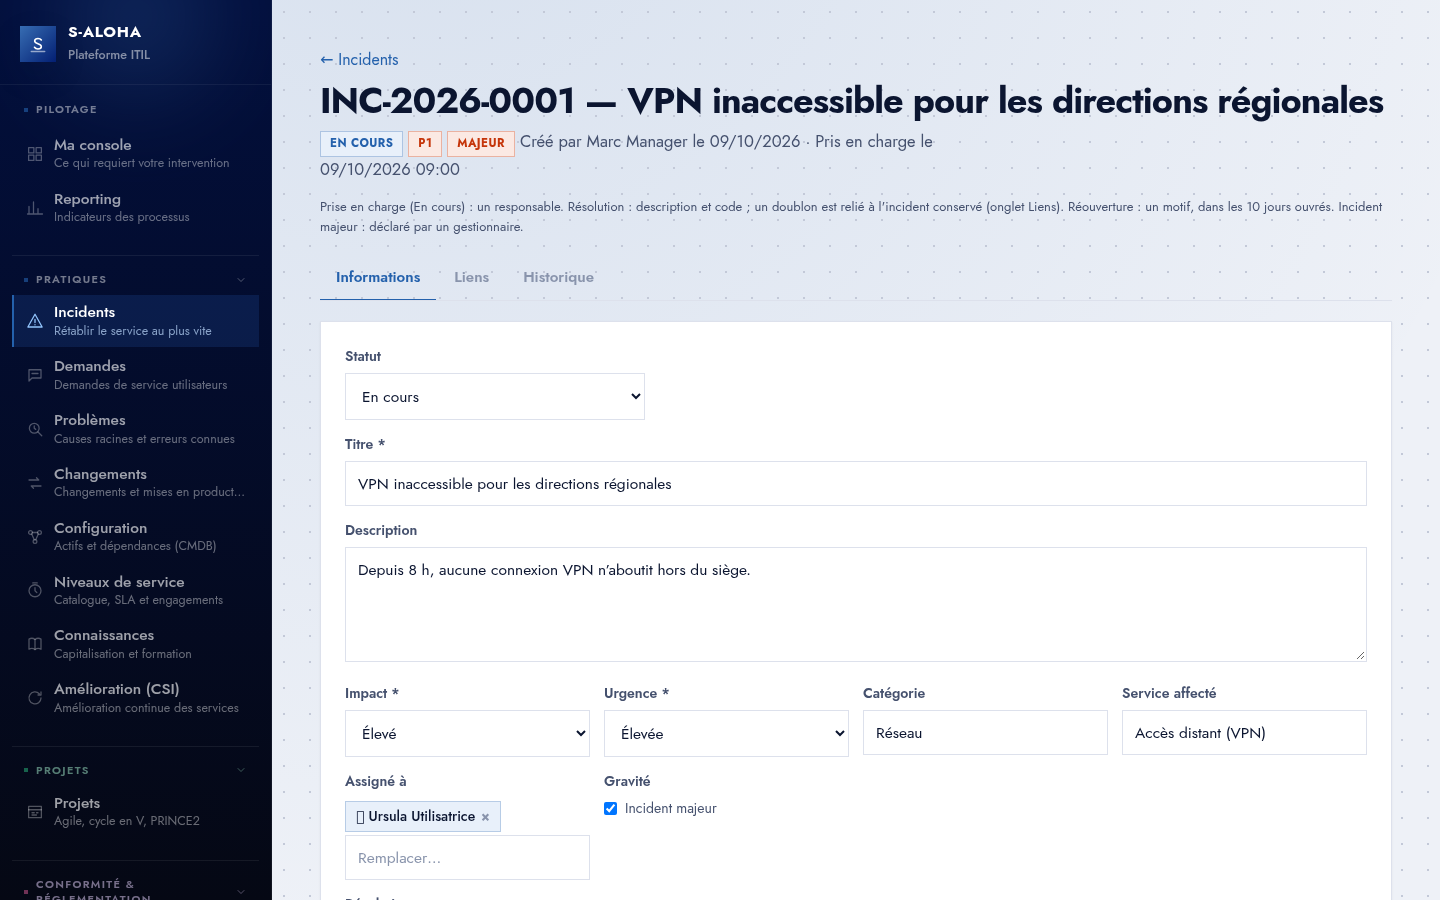
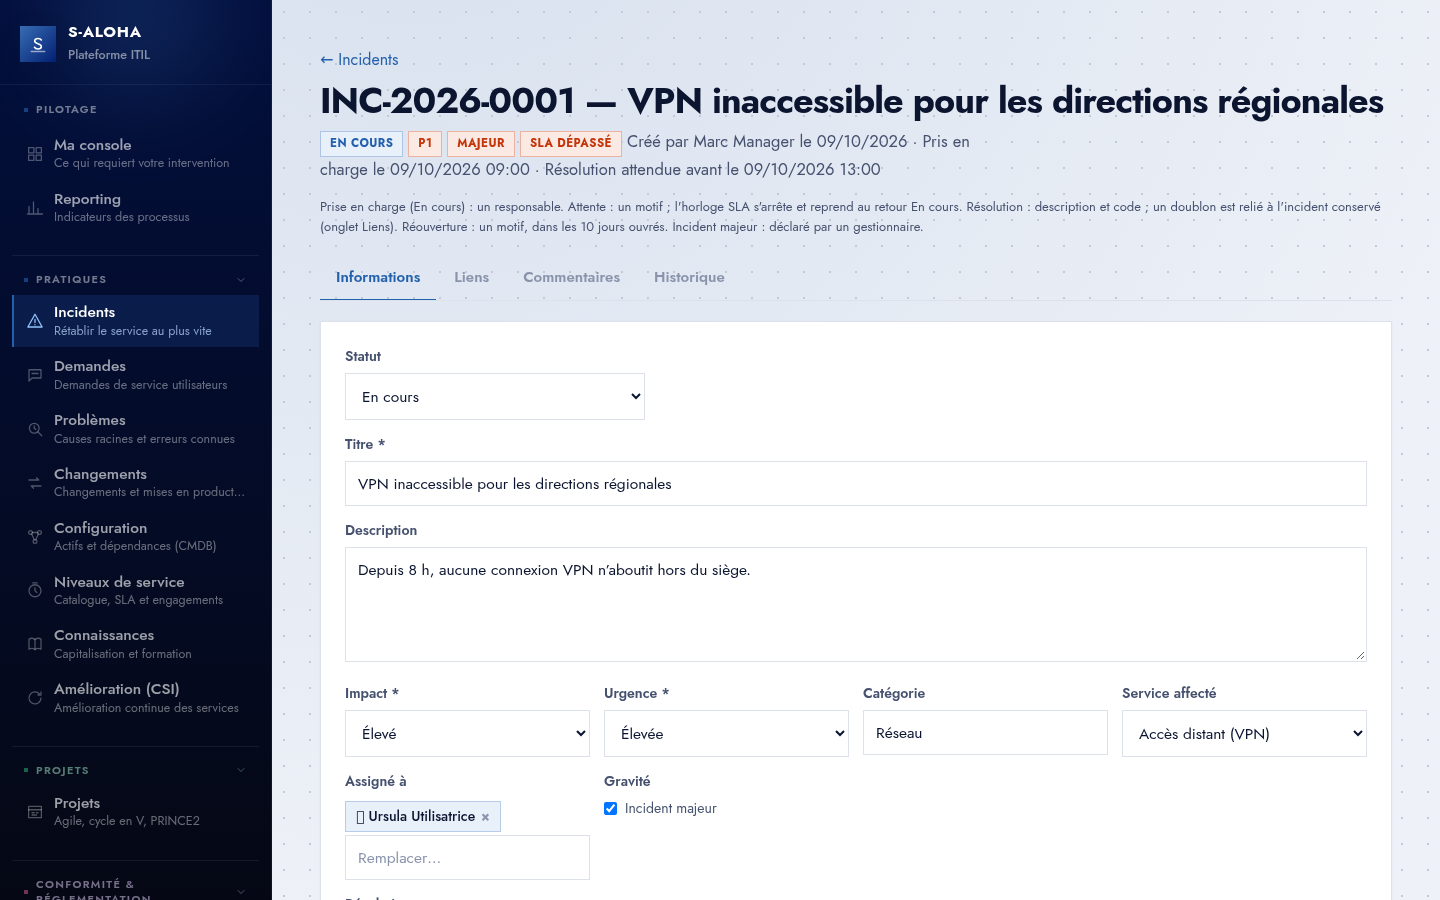
Captures d'écran sur l'interface actuelle, notifications dans la galerie

diff --git a/README.md b/README.md
@@ -140,12 +140,12 @@ dépendance à un éditeur.
     <td><img src="docs/screenshots/08-reporting.png" alt="Reporting" /><br/><b>Reporting</b> — tableau de bord à onglets : santé, incidents, problèmes, changements et projets, conformité</td>
   </tr>
   <tr>
-    <td><img src="docs/screenshots/10-incident-majeur.png" alt="Incident majeur" /><br/><b>Incidents</b> — priorité P1–P4, incident majeur, problème lié</td>
+    <td><img src="docs/screenshots/10-incident-majeur.png" alt="Incident majeur" /><br/><b>Incident majeur</b> — priorité P1–P4, état du SLA, échéance de résolution</td>
     <td><img src="docs/screenshots/11-calendrier-changements.png" alt="Calendrier des changements" /><br/><b>Changements</b> — autorisation et calendrier des mises en production</td>
   </tr>
   <tr>
     <td><img src="docs/screenshots/12-configuration-relations.png" alt="CI et relations" /><br/><b>Configuration</b> — éléments de configuration et leurs dépendances</td>
-    <td><img src="docs/screenshots/13-niveaux-de-service.png" alt="Accords de niveau de service" /><br/><b>Niveaux de service</b> — SLA par service, cibles et revues</td>
+    <td><img src="docs/screenshots/13-niveaux-de-service.png" alt="Accords de niveau de service" /><br/><b>Niveaux de service</b> — SLA par service, disponibilité, revues</td>
   </tr>
   <tr>
     <td><img src="docs/screenshots/14-connaissances.png" alt="Base de connaissances" /><br/><b>Connaissances</b> — solutions, procédures, erreurs connues</td>
@@ -154,6 +154,10 @@ dépendance à un éditeur.
   <tr>
     <td><img src="docs/screenshots/17-projet-scrum.png" alt="Projet Scrum" /><br/><b>Projets</b> — Scrum, cycle en V, PRINCE2 : backlog, sprints, tableau</td>
     <td><img src="docs/screenshots/18-conformite-nis2.png" alt="Conformité NIS 2" /><br/><b>Conformité NIS 2</b> — évaluation, score, maturité et écarts par objectif</td>
+  </tr>
+  <tr>
+    <td><img src="docs/screenshots/19-notifications.png" alt="Notifications" /><br/><b>Notifications</b> — demandes en retard, actions en retard, SLA dépassés, incidents P1</td>
+    <td><img src="docs/screenshots/09-incidents.png" alt="Registre des incidents" /><br/><b>Registre des incidents</b> — priorité, service, état du SLA</td>
   </tr>
 </table>
 

diff --git a/docs/archives/journal-2026-10-16.md b/docs/archives/journal-2026-10-16.md
@@ -106,3 +106,21 @@
 - **Commit** : branche `presentation-fonctionnalites`.
 
 ---
+
+## Captures d'écran sur l'interface actuelle ; description du dépôt
+
+- **Quoi** : les 18 captures de `docs/screenshots/` refaites sur le code de main 89f1b2f
+  (console avec SLA en risque, registre des incidents avec état du SLA, fiches à jour), et une
+  nouvelle, `19-notifications.png` (cloche ouverte). Galerie du README : notifications et
+  registre des incidents ajoutés, légendes à jour. Description et sujets du dépôt GitHub
+  alignés sur le nouveau README (accord de l'utilisateur).
+- **Comment** : instance de démonstration en lecture seule, numérotation continue vérifiée
+  (aucun enregistrement de test) ; pages refusées si leur texte contient un enregistrement
+  de test ou une adresse interne.
+- **Reste** : commentaires, modèles de changement standard, périodes de gel et périmètres
+  multiples n'ont pas de données d'exemple ; leurs captures attendent que les données de
+  démonstration les couvrent.
+- **Fichiers** : `docs/screenshots/*`, `README.md`.
+- **Commit** : branche `captures-1016`.
+
+---
